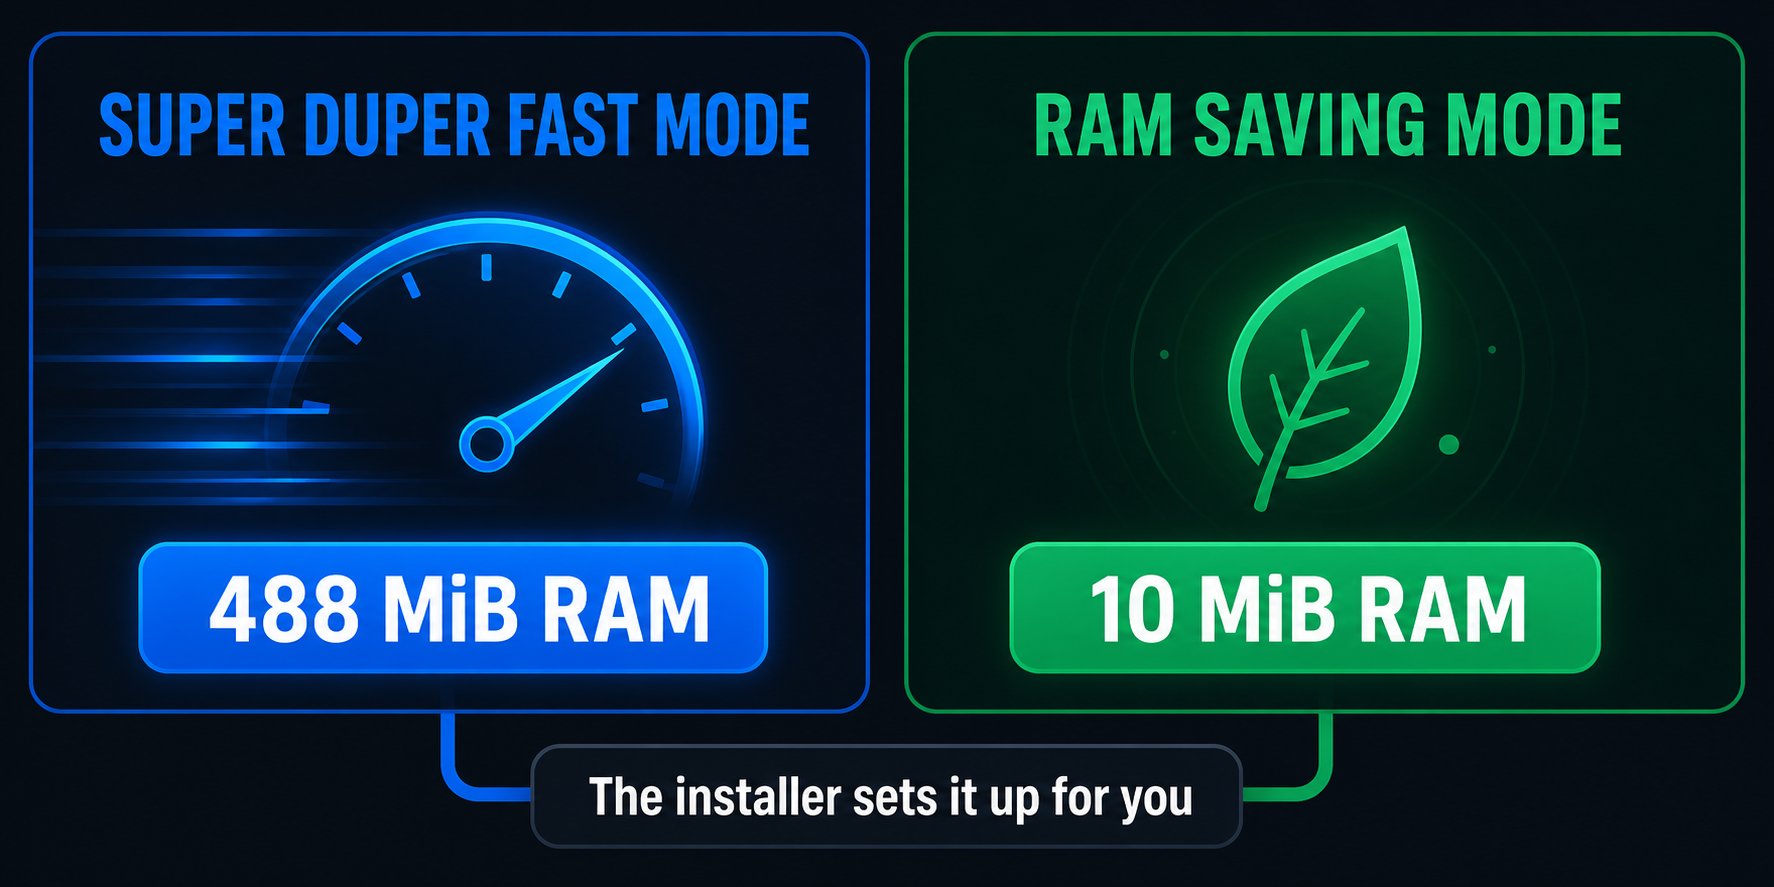
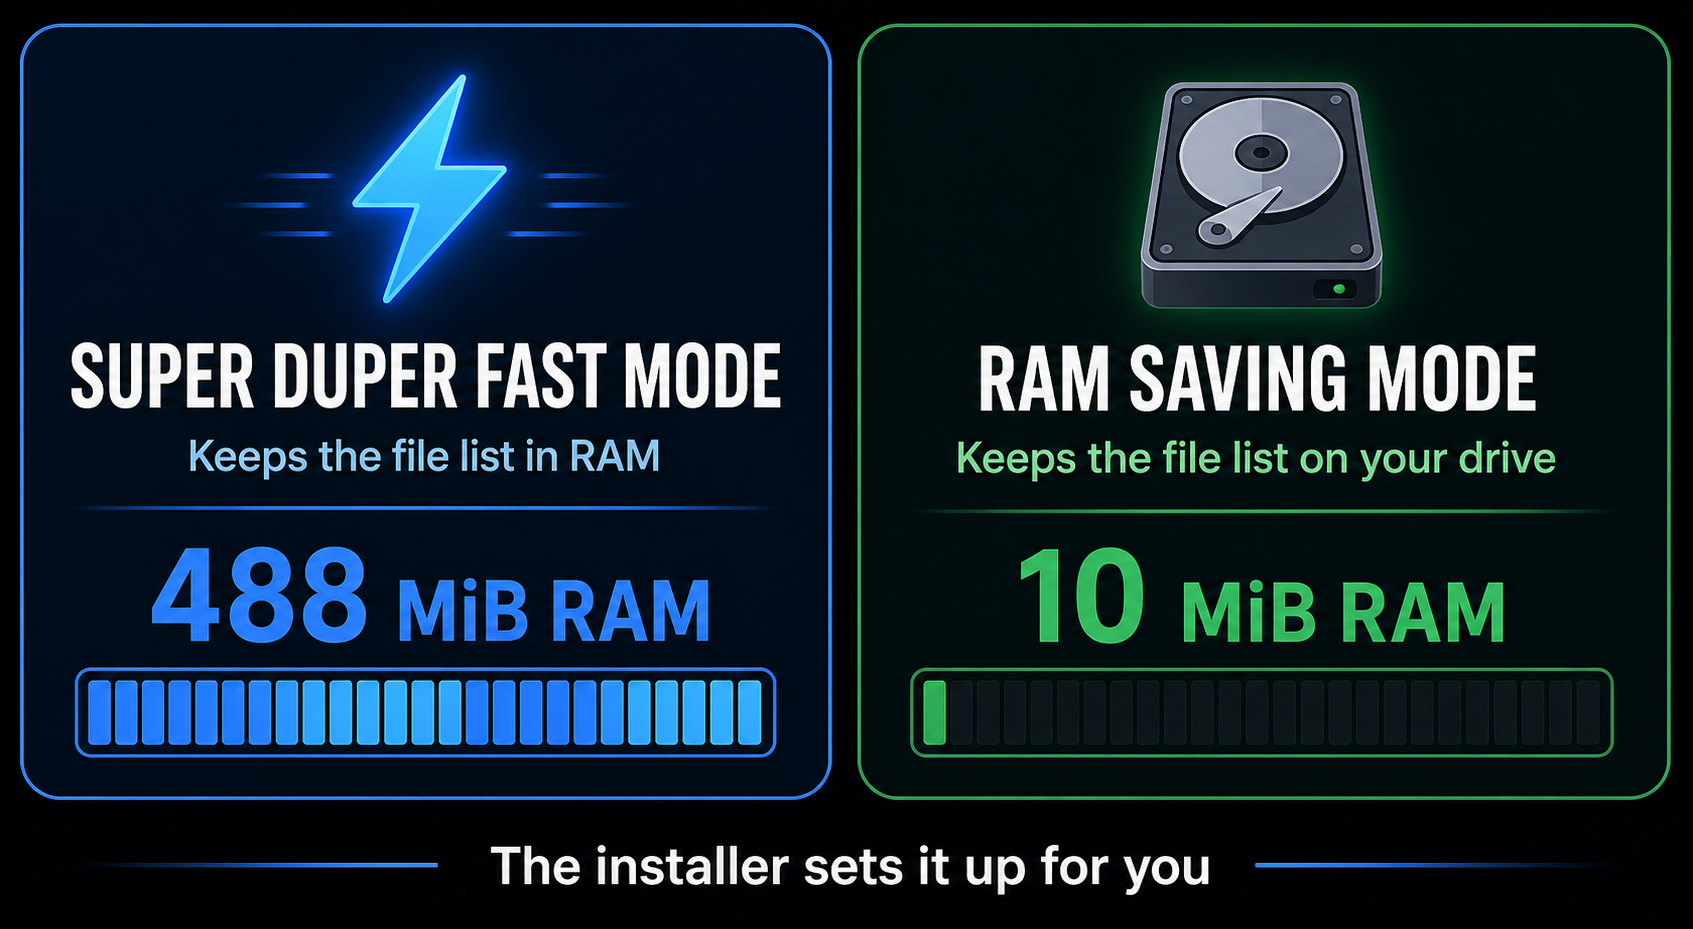
feat: default indexer to RAM saving mode

diff --git a/indexer/src/index.rs b/indexer/src/index.rs
@@ -79,10 +79,10 @@ impl FileIndex {
         }
     }
 
-    /// Select the storage backend. `memory` remains the default for backward
-    /// compatibility; `disk` keeps the live metadata in SQLite instead.
+    /// Select the storage backend. `disk` is the default and keeps the live
+    /// metadata in SQLite; `memory` keeps it in RAM for the fastest searches.
     pub fn from_env() -> anyhow::Result<Self> {
-        let mode = std::env::var("INSTANT_FS_INDEX_MODE").unwrap_or_else(|_| "memory".into());
+        let mode = std::env::var("INSTANT_FS_INDEX_MODE").unwrap_or_else(|_| "disk".into());
         if mode.eq_ignore_ascii_case("memory") {
             return Ok(Self::new());
         }

diff --git a/docs/low-memory-roadmap.md b/docs/low-memory-roadmap.md
@@ -26,12 +26,12 @@ implemented in the original list order.
 5. Update installers after all runtime configuration values are stable.
 6. Finish with process-restart, crash-window, and privileged platform tests.
 
-Memory metadata mode must remain the default. Existing installations must keep
+Disk metadata mode is the default. Existing installations must keep
 their current behavior unless the user explicitly changes a setting.
 
 ## Current behavior and baseline
 
-- `INSTANT_FS_INDEX_MODE=memory` is the default.
+- `INSTANT_FS_INDEX_MODE=disk` is the default.
 - `INSTANT_FS_INDEX_MODE=disk` stores file metadata in SQLite.
 - Disk metadata mode stores durable Windows USN and macOS FSEvents checkpoints.
 - Linux still performs a full metadata walk after service restart because
@@ -451,7 +451,7 @@ feat: configure index modes in platform installers
 ### Shared behavior
 
 - Expose validated installer choices for metadata mode and content mode.
-- Default new installs to metadata `memory` and content `auto`.
+- Default new installs to metadata `disk` and content `auto`.
 - On upgrade, preserve the installed choice when the user does not specify a
   new value.
 - Record the selected values in installation state where that platform has
@@ -613,7 +613,7 @@ All work is complete only when:
 
 1. Six milestone commits have each been tested and pushed independently.
 2. Existing MCP schemas remain compatible.
-3. Memory mode remains the default and shows no material regression.
+3. Disk mode remains the default and shows no material regression.
 4. Disk metadata mode has measured low RAM, faster common queries, durable
    schema handling, and safe corruption recovery.
 5. Disk content is opt-in, persistent, bounded, secure, and does not create an

diff --git a/docs/architecture.md b/docs/architecture.md
@@ -29,12 +29,13 @@ filesystem map. Runs as the Windows service `instant-file-search-indexer`
   from `$DATA` (resident: value length; nonresident: valid-data-length at
   attribute header +48) — the `$FILE_NAME` attribute's metadata goes stale on
   NTFS (only refreshed on rename). Full-volume scan: ~2.4M files in ~15s.
-- **Storage modes:** the default in-memory mode holds path-keyed entries with
-  precomputed lowercase name/path fields plus a record-number → path map for
-  allocation-free matching. Set `INSTANT_FS_INDEX_MODE=disk` to store source
-  metadata in a local SQLite database instead. Disk mode streams entries into
-  the same matcher and resolves record numbers through a database index, so it
-  has a substantially lower steady-state heap footprint at the cost of disk IO.
+- **Storage modes:** the default disk mode stores source metadata in a local
+  SQLite database. It streams entries into the shared matcher and resolves
+  record numbers through a database index, so it has a substantially lower
+  steady-state heap footprint at the cost of disk IO. Set
+  `INSTANT_FS_INDEX_MODE=memory` for the fastest searches; memory mode holds
+  path-keyed entries with precomputed lowercase name/path fields plus a
+  record-number → path map for allocation-free matching.
   On Windows it stores the USN journal ID and cursor after each applied batch;
   on macOS it stores the FSEvents ID after each applied event. A restart replays
   from the saved checkpoint when the operating system still has that history,

diff --git a/README.md b/README.md
@@ -200,7 +200,9 @@ By default, searches are answered in milliseconds straight from memory. Nothing 
 
 ### Choose a storage mode
 
-There are two options:
+Instant File Search defaults to RAM saving mode. It stays in the mode it was
+installed with. Super duper fast mode is available when you have plenty of RAM
+and want every bit of speed.
 
 ![Super duper fast mode and RAM saving mode](docs/images/storage-mode-options.png)
 
